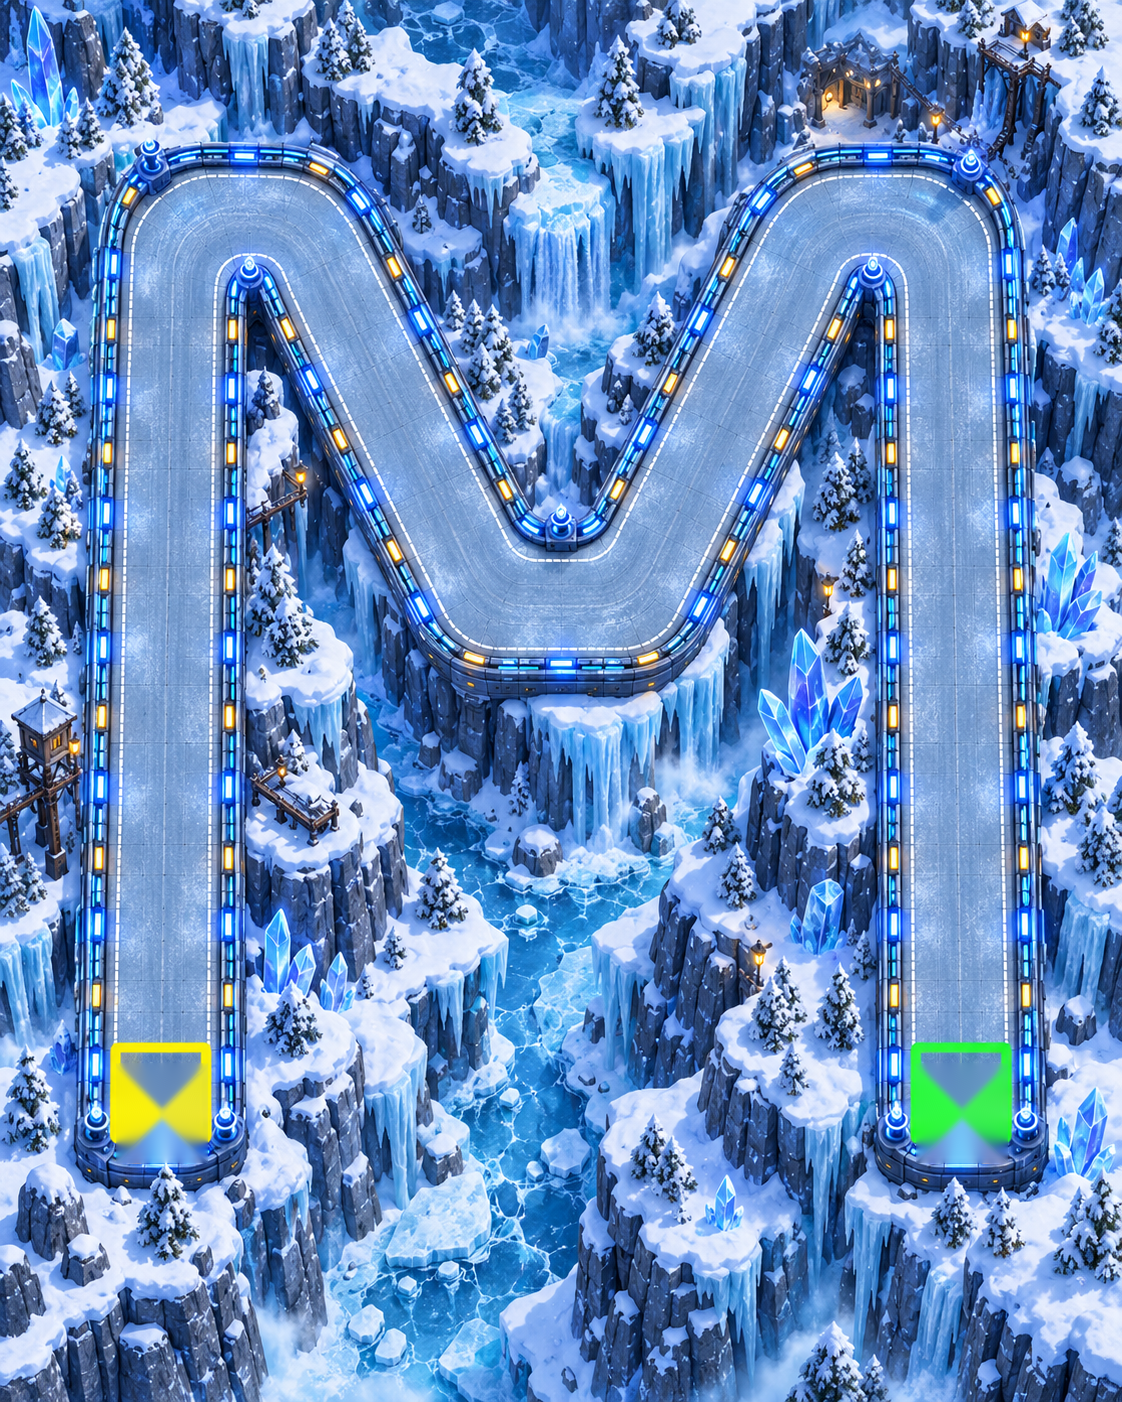
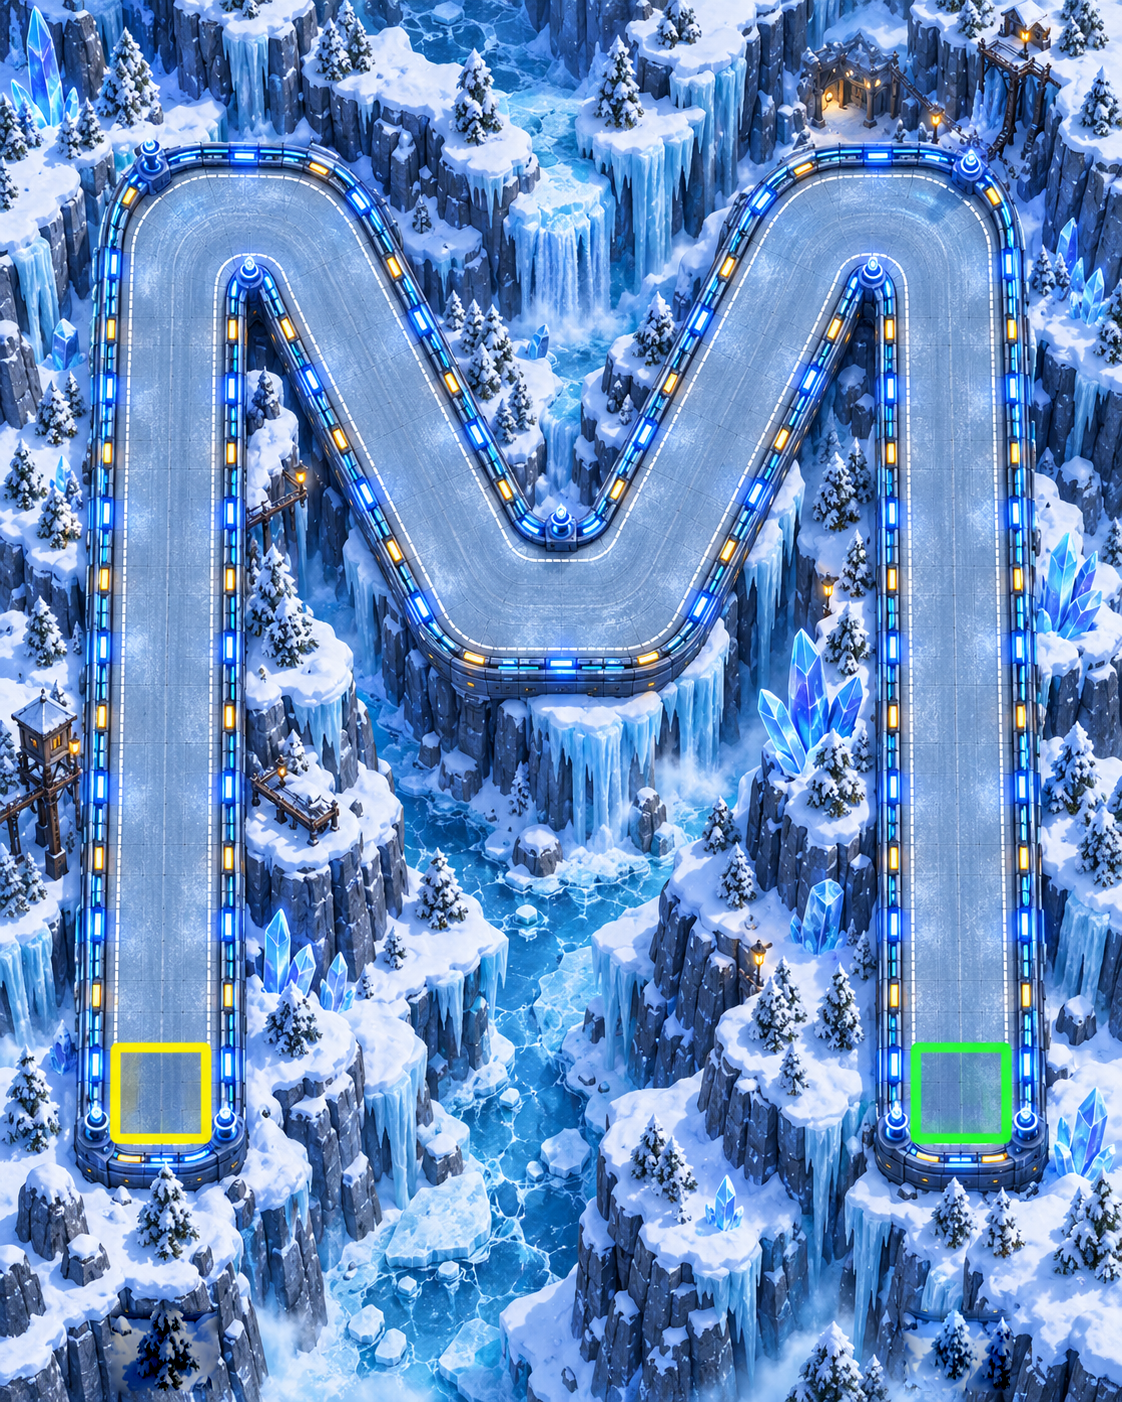
Add files via upload

diff --git a/game.js b/game.js
@@ -27,7 +27,7 @@
   const STUN_MS = 0;
   const INV_MS = 0;
   const CAMERA_ZOOM = 3.00;
-  const BUILD_ID = "v7.892";
+  const BUILD_ID = "v7.893";
 window.__OBSERVER_FM_BUILD__ = BUILD_ID;
 
   const RACER_KEYS=["A","B","C","D","E","F","G","H"];
@@ -5658,9 +5658,9 @@ function applyMapSet776(){
   const meta={
     s_map:{slot:1,name:"네온 드리프트",en:"Neon Drift",theme:"Blue Neon S Course",tags:["기본","S자","네온"],image:"map_v672_equal_medium_start_goal.png?v=776-neon-drift"},
     star_fish:{slot:2,name:"스타 피쉬",en:"Star Fish",theme:"Tropical Star Island",tags:["기본","별모양","한바퀴"],image:"map_star_fish_791.png?v=791-card"},
-    ice_ring:{slot:3,name:"아이스 크라운",en:"Ice Crown",theme:"Frozen Crown Canyon",tags:["기본","M자","아이스"],image:"map_ice_m_776.png?v=792-ice-crown",special:{shortcuts:false,obstacles:false,wideRoad:false,multiRoute:false,verticality:false}},
+    ice_ring:{slot:3,name:"아이스 크라운",en:"Ice Crown",theme:"Frozen Crown Canyon",tags:["기본","M자","아이스"],image:"map_ice_m_776.png?v=793-ice-crown-clean",special:{shortcuts:false,obstacles:false,wideRoad:false,multiRoute:false,verticality:false}},
     desert_oasis:{slot:4,name:"사막 오아시스",en:"Desert Oasis",theme:"Desert Ruins Oasis",tags:["기본","사막","한바퀴"],image:"map_desert_oasis_776.png?v=776-desert-oasis",special:{shortcuts:false,obstacles:false,wideRoad:true,multiRoute:false,verticality:false}},
-    neon_city:{slot:5,name:"하트",en:"Heart",theme:"Cherry Blossom Heart",tags:["기본","하트","한바퀴"],image:"map_heart_776.png?v=776-heart",special:{shortcuts:false,obstacles:false,wideRoad:true,multiRoute:false,verticality:false}},
+    neon_city:{slot:5,name:"하트",en:"Heart",theme:"Cherry Blossom Heart",tags:["기본","하트","한바퀴"],image:"map_heart_776.png?v=793-heart-clean",special:{shortcuts:false,obstacles:false,wideRoad:true,multiRoute:false,verticality:false}},
     double_hairpin:{slot:6,name:"블랙홀",en:"Black Hole",theme:"Black Hole Spiral",tags:["고난도","나선","테크니컬"],image:"map_black_hole_776.png?v=776-black-hole",special:{shortcuts:false,obstacles:false,wideRoad:false,multiRoute:false,verticality:false}},
     skyway:{slot:7,name:"스페이스",en:"Space",theme:"Deep Space Narrow Run",tags:["좁은길","직선","우주"],image:"map_space_776.png?v=776-space",special:{shortcuts:false,obstacles:false,wideRoad:false,multiRoute:false,verticality:true}},
     cliff_hanger:{slot:8,name:"클리프 행거",en:"Cliff Hanger",theme:"Frozen Cliff Run",tags:["좁은길","절벽","정밀"],image:"map_cliff_hanger_776.png?v=776-cliff-hanger",special:{shortcuts:false,obstacles:false,wideRoad:false,multiRoute:false,verticality:true}},
@@ -6336,14 +6336,14 @@ applyMapSet776();
   function applyPatch787(){
     const ice=MAP_DEFINITIONS_770.ice_ring;
     if(ice){
-      ice.image="map_ice_m_787.png?v=787-ice-load-fix";
+      ice.image="map_ice_m_787.png?v=7893-ice-clean-runtime";
       ice.gateArtwork786="outline-only-clean-v787";
       ice.geometryReady=true;
     }
 
     const heart=MAP_DEFINITIONS_770.neon_city;
     if(heart){
-      heart.image="map_heart_7891_clean.png?v=7891-heart-no-gates";
+      heart.image="map_heart_7891_clean.png?v=7893-heart-runtime-fix";
       heart.artworkRestored787=true;
     }
 
@@ -6653,6 +6653,72 @@ applyMapSet776();
     black.outerSoftLimit789=true;
   }
   applyPatch7892();
+
+
+  // ============================================================
+  // v7.893 — Mosaic cleanup + Heart runtime refresh + tighter Black Hole line
+  // 1) Use the clean Heart/Ice artwork for thumbnails and runtime so leftover
+  //    gray mosaic/checker patches are gone.
+  // 2) Reaffirm the Heart shared red gate runtime setup with the clean asset.
+  // 3) Pull Black Hole's normal racing line slightly inward so it does not
+  //    take a huge outer setup arc that leaks into the adjacent lane.
+  // ============================================================
+  function applyPatch7893(){
+    const ice=MAP_DEFINITIONS_770.ice_ring;
+    if(ice){
+      ice.image="map_ice_m_787.png?v=7893-ice-clean-runtime";
+      ice.artworkRestored893=true;
+    }
+
+    const heart=MAP_DEFINITIONS_770.neon_city;
+    if(heart){
+      const p=[71.099,126.205];
+      heart.image="map_heart_7891_clean.png?v=7893-heart-runtime-fix";
+      heart.start={x:p[0],y:p[1]};
+      heart.goal={x:p[0],y:p[1]};
+      if(Array.isArray(heart.route770) && heart.route770.length>=2){
+        heart.route770[0]=[p[0],p[1]];
+        heart.route770[heart.route770.length-1]=[p[0],p[1]];
+      }
+      const h=7.0;
+      heart.safeZones={
+        start:{x0:p[0]-h,y0:p[1]-h,x1:p[0]+h,y1:p[1]+h},
+        goal:{x0:p[0]-h,y0:p[1]-h,x1:p[0]+h,y1:p[1]+h}
+      };
+      heart.sharedGate778=true;
+      heart.courseType775="circuit";
+      heart.finishRule775="one-lap-gate";
+      heart.lapRequired775=true;
+      heart.lapArmFraction775=.82;
+      let line=conservativeRacingLine778(heart);
+      heart.racingSpline770=line;
+      heart.globalOptimal770=line;
+      heart.racingLineMode772="heart-shared-red-gate-v7.893";
+      heart.heartRuntimeRefresh893=true;
+    }
+
+    const black=MAP_DEFINITIONS_770.double_hairpin;
+    if(black){
+      if(Array.isArray(black.widths770)&&black.widths770.length){
+        black.widths770=black.widths770.map(()=>12.6);
+      }
+      let tuned=tuneRacingSpline789(black);
+      if(tuned.length>=3){
+        black.racingSpline770=tuned;
+        black.globalOptimal770=tuned;
+        tuned=tuneRacingSpline789(black);
+      }
+      if(tuned.length>=3){
+        black.racingSpline770=tuned;
+        black.globalOptimal770=tuned;
+      }
+      black.racingLineMode772=(black.racingLineMode772||'outer-to-inner-spiral-v7.892')+"+inboard-v7.893";
+      black.insideTune789="tighter-inboard-spiral-v7.893";
+      black.outerSoftLimit789=true;
+      black.blackHoleLaneTight893=true;
+    }
+  }
+  applyPatch7893();
 
 
   function enforceHardForbidden780(p,oldX,oldY){

diff --git a/index.html b/index.html
@@ -6,7 +6,7 @@
   <meta http-equiv="Expires" content="0">
   <meta charset="utf-8">
   <meta name="viewport" content="width=device-width,initial-scale=1">
-  <title>Observer Avoid FM v7.892 — Slight Inside + Outer Soft Limit</title>
+  <title>Observer Avoid FM v7.893 — Mosaic Cleanup + Heart Fix + Tighter Black Hole</title>
   <link rel="stylesheet" href="style.css">
 
   <style id="mapSelectStyle774">
@@ -226,6 +226,6 @@
     </div>
   </div>
 
-  <script src="game.js?v=7.892-black-hole-spiral"></script>
+  <script src="game.js?v=7.893-mosaic-heart-blackhole"></script>
 </body>
 </html>
